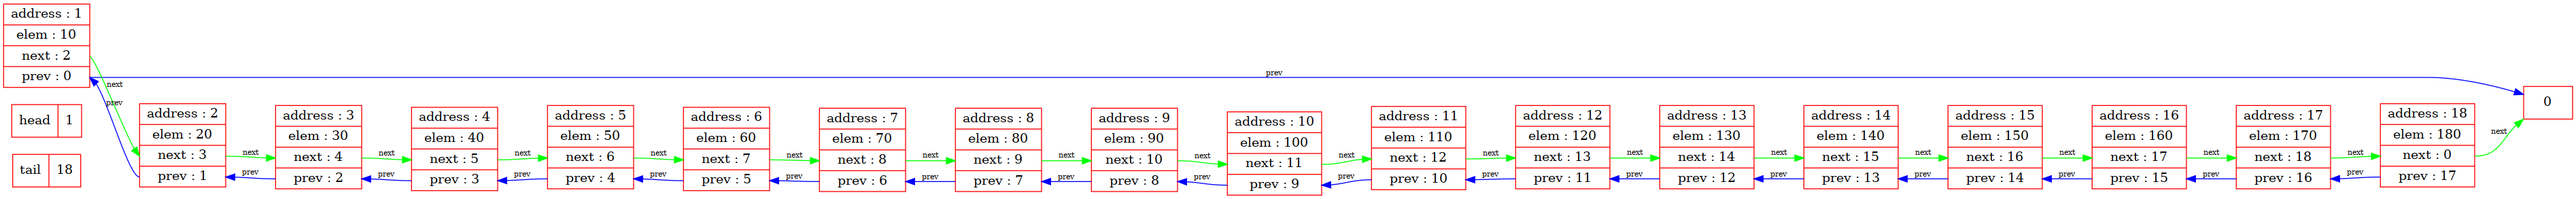
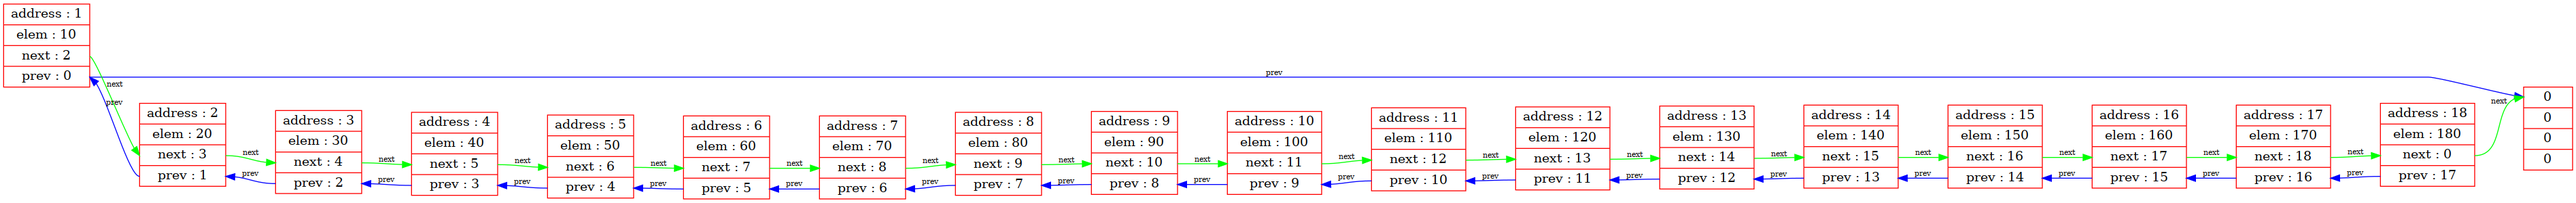
Add files via upload

Changed region(s): [[0.0, 0.43, 1.0, 0.9829], [0.0, 0.0, 0.9654, 0.4608], [0.0, 0.9215, 0.0311, 0.9522]]

diff --git a/StructList/listLog.html b/StructList/listLog.html
@@ -1,41 +1,1 @@
---------------------------------------------------------------------------------<br><br>[LIST_DUMP]<br><br>isSorted : 1<br>size : 0<br><br>   i :   0   1   2   3   4   5   6   7   8   9  10 <br><br>elem :   0   0   0   0   0   0   0   0   0   0   0 <br><br>next :   0   2   3   4   5   6   7   8   9  10   0 <br><br>prev :   0  -1  -1  -1  -1  -1  -1  -1  -1  -1  -1 <br><br>head : 0
-tail : 0
-freePlace : 1<br><br><img src ="/home/kostya/StructList/graphviz/graphviz1.png"><br>--------------------------------------------------------------------------------<br><br>--------------------------------------------------------------------------------<br><br>[LIST_DUMP]<br><br>isSorted : 1<br>size : 1<br><br>   i :   0   1   2   3   4   5   6   7   8   9  10 <br><br>elem :   0  10   0   0   0   0   0   0   0   0   0 <br><br>next :   0   0   3   4   5   6   7   8   9  10   0 <br><br>prev :   0   0  -1  -1  -1  -1  -1  -1  -1  -1  -1 <br><br>head : 1
-tail : 1
-freePlace : 2<br><br><img src ="/home/kostya/StructList/graphviz/graphviz2.png"><br>--------------------------------------------------------------------------------<br><br>--------------------------------------------------------------------------------<br><br>[LIST_DUMP]<br><br>isSorted : 1<br>size : 2<br><br>   i :   0   1   2   3   4   5   6   7   8   9  10 <br><br>elem :   0  10  20   0   0   0   0   0   0   0   0 <br><br>next :   0   2   0   4   5   6   7   8   9  10   0 <br><br>prev :   0   0   1  -1  -1  -1  -1  -1  -1  -1  -1 <br><br>head : 1
-tail : 2
-freePlace : 3<br><br><img src ="/home/kostya/StructList/graphviz/graphviz3.png"><br>--------------------------------------------------------------------------------<br><br>--------------------------------------------------------------------------------<br><br>[LIST_DUMP]<br><br>isSorted : 1<br>size : 3<br><br>   i :   0   1   2   3   4   5   6   7   8   9  10 <br><br>elem :   0  10  20  30   0   0   0   0   0   0   0 <br><br>next :   0   2   3   0   5   6   7   8   9  10   0 <br><br>prev :   0   0   1   2  -1  -1  -1  -1  -1  -1  -1 <br><br>head : 1
-tail : 3
-freePlace : 4<br><br><img src ="/home/kostya/StructList/graphviz/graphviz4.png"><br>--------------------------------------------------------------------------------<br><br>--------------------------------------------------------------------------------<br><br>[LIST_DUMP]<br><br>isSorted : 1<br>size : 4<br><br>   i :   0   1   2   3   4   5   6   7   8   9  10 <br><br>elem :   0  10  20  30  40   0   0   0   0   0   0 <br><br>next :   0   2   3   4   0   6   7   8   9  10   0 <br><br>prev :   0   0   1   2   3  -1  -1  -1  -1  -1  -1 <br><br>head : 1
-tail : 4
-freePlace : 5<br><br><img src ="/home/kostya/StructList/graphviz/graphviz5.png"><br>--------------------------------------------------------------------------------<br><br>--------------------------------------------------------------------------------<br><br>[LIST_DUMP]<br><br>isSorted : 1<br>size : 5<br><br>   i :   0   1   2   3   4   5   6   7   8   9  10 <br><br>elem :   0  10  20  30  40  50   0   0   0   0   0 <br><br>next :   0   2   3   4   5   0   7   8   9  10   0 <br><br>prev :   0   0   1   2   3   4  -1  -1  -1  -1  -1 <br><br>head : 1
-tail : 5
-freePlace : 6<br><br><img src ="/home/kostya/StructList/graphviz/graphviz6.png"><br>--------------------------------------------------------------------------------<br><br>--------------------------------------------------------------------------------<br><br>[LIST_DUMP]<br><br>isSorted : 1<br>size : 6<br><br>   i :   0   1   2   3   4   5   6   7   8   9  10 <br><br>elem :   0  10  20  30  40  50  60   0   0   0   0 <br><br>next :   0   2   3   4   5   6   0   8   9  10   0 <br><br>prev :   0   0   1   2   3   4   5  -1  -1  -1  -1 <br><br>head : 1
-tail : 6
-freePlace : 7<br><br><img src ="/home/kostya/StructList/graphviz/graphviz7.png"><br>--------------------------------------------------------------------------------<br><br>--------------------------------------------------------------------------------<br><br>[LIST_DUMP]<br><br>isSorted : 1<br>size : 7<br><br>   i :   0   1   2   3   4   5   6   7   8   9  10 <br><br>elem :   0  10  20  30  40  50  60  70   0   0   0 <br><br>next :   0   2   3   4   5   6   7   0   9  10   0 <br><br>prev :   0   0   1   2   3   4   5   6  -1  -1  -1 <br><br>head : 1
-tail : 7
-freePlace : 8<br><br><img src ="/home/kostya/StructList/graphviz/graphviz8.png"><br>--------------------------------------------------------------------------------<br><br>--------------------------------------------------------------------------------<br><br>[LIST_DUMP]<br><br>isSorted : 1<br>size : 8<br><br>   i :   0   1   2   3   4   5   6   7   8   9  10 <br><br>elem :   0  10  20  30  40  50  60  70  80   0   0 <br><br>next :   0   2   3   4   5   6   7   8   0  10   0 <br><br>prev :   0   0   1   2   3   4   5   6   7  -1  -1 <br><br>head : 1
-tail : 8
-freePlace : 9<br><br><img src ="/home/kostya/StructList/graphviz/graphviz9.png"><br>--------------------------------------------------------------------------------<br><br>--------------------------------------------------------------------------------<br><br>[LIST_DUMP]<br><br>isSorted : 1<br>size : 9<br><br>   i :   0   1   2   3   4   5   6   7   8   9  10 <br><br>elem :   0  10  20  30  40  50  60  70  80  90   0 <br><br>next :   0   2   3   4   5   6   7   8   9   0   0 <br><br>prev :   0   0   1   2   3   4   5   6   7   8  -1 <br><br>head : 1
-tail : 9
-freePlace : 10<br><br><img src ="/home/kostya/StructList/graphviz/graphviz10.png"><br>--------------------------------------------------------------------------------<br><br>--------------------------------------------------------------------------------<br><br>[LIST_DUMP]<br><br>isSorted : 1<br>size : 10<br><br>   i :   0   1   2   3   4   5   6   7   8   9  10 <br><br>elem :   0  10  20  30  40  50  60  70  80  90 100 <br><br>next :   0   2   3   4   5   6   7   8   9  10   0 <br><br>prev :   0   0   1   2   3   4   5   6   7   8   9 <br><br>head : 1
-tail : 10
-freePlace : 0<br><br><img src ="/home/kostya/StructList/graphviz/graphviz11.png"><br>--------------------------------------------------------------------------------<br><br>--------------------------------------------------------------------------------<br><br>[LIST_DUMP]<br><br>isSorted : 1<br>size : 11<br><br>   i :   0   1   2   3   4   5   6   7   8   9  10  11  12  13  14  15  16  17  18  19  20  21 <br><br>elem :   0  10  20  30  40  50  60  70  80  90 100 110   0   0   0   0   0   0   0   0   0   0 <br><br>next :   0   2   3   4   5   6   7   8   9  10  11   0  13  14  15  16  17  18  19  20  21 543450484 <br><br>prev :   0   0   1   2   3   4   5   6   7   8   9  10  -1  -1  -1  -1  -1  -1  -1  -1  -1  -1 <br><br>head : 1
-tail : 11
-freePlace : 12<br><br><img src ="/home/kostya/StructList/graphviz/graphviz12.png"><br>--------------------------------------------------------------------------------<br><br>--------------------------------------------------------------------------------<br><br>[LIST_DUMP]<br><br>isSorted : 1<br>size : 12<br><br>   i :   0   1   2   3   4   5   6   7   8   9  10  11  12  13  14  15  16  17  18  19  20  21 <br><br>elem :   0  10  20  30  40  50  60  70  80  90 100 110 120   0   0   0   0   0   0   0   0   0 <br><br>next :   0   2   3   4   5   6   7   8   9  10  11  12   0  14  15  16  17  18  19  20  21 543450484 <br><br>prev :   0   0   1   2   3   4   5   6   7   8   9  10  11  -1  -1  -1  -1  -1  -1  -1  -1  -1 <br><br>head : 1
-tail : 12
-freePlace : 13<br><br><img src ="/home/kostya/StructList/graphviz/graphviz13.png"><br>--------------------------------------------------------------------------------<br><br>--------------------------------------------------------------------------------<br><br>[LIST_DUMP]<br><br>isSorted : 1<br>size : 13<br><br>   i :   0   1   2   3   4   5   6   7   8   9  10  11  12  13  14  15  16  17  18  19  20  21 <br><br>elem :   0  10  20  30  40  50  60  70  80  90 100 110 120 130   0   0   0   0   0   0   0   0 <br><br>next :   0   2   3   4   5   6   7   8   9  10  11  12  13   0  15  16  17  18  19  20  21 543450484 <br><br>prev :   0   0   1   2   3   4   5   6   7   8   9  10  11  12  -1  -1  -1  -1  -1  -1  -1  -1 <br><br>head : 1
-tail : 13
-freePlace : 14<br><br><img src ="/home/kostya/StructList/graphviz/graphviz14.png"><br>--------------------------------------------------------------------------------<br><br>--------------------------------------------------------------------------------<br><br>[LIST_DUMP]<br><br>isSorted : 1<br>size : 14<br><br>   i :   0   1   2   3   4   5   6   7   8   9  10  11  12  13  14  15  16  17  18  19  20  21 <br><br>elem :   0  10  20  30  40  50  60  70  80  90 100 110 120 130 140   0   0   0   0   0   0   0 <br><br>next :   0   2   3   4   5   6   7   8   9  10  11  12  13  14   0  16  17  18  19  20  21 543450484 <br><br>prev :   0   0   1   2   3   4   5   6   7   8   9  10  11  12  13  -1  -1  -1  -1  -1  -1  -1 <br><br>head : 1
-tail : 14
-freePlace : 15<br><br><img src ="/home/kostya/StructList/graphviz/graphviz15.png"><br>--------------------------------------------------------------------------------<br><br>--------------------------------------------------------------------------------<br><br>[LIST_DUMP]<br><br>isSorted : 1<br>size : 15<br><br>   i :   0   1   2   3   4   5   6   7   8   9  10  11  12  13  14  15  16  17  18  19  20  21 <br><br>elem :   0  10  20  30  40  50  60  70  80  90 100 110 120 130 140 150   0   0   0   0   0   0 <br><br>next :   0   2   3   4   5   6   7   8   9  10  11  12  13  14  15   0  17  18  19  20  21 543450484 <br><br>prev :   0   0   1   2   3   4   5   6   7   8   9  10  11  12  13  14  -1  -1  -1  -1  -1  -1 <br><br>head : 1
-tail : 15
-freePlace : 16<br><br><img src ="/home/kostya/StructList/graphviz/graphviz16.png"><br>--------------------------------------------------------------------------------<br><br>--------------------------------------------------------------------------------<br><br>[LIST_DUMP]<br><br>isSorted : 1<br>size : 16<br><br>   i :   0   1   2   3   4   5   6   7   8   9  10  11  12  13  14  15  16  17  18  19  20  21 <br><br>elem :   0  10  20  30  40  50  60  70  80  90 100 110 120 130 140 150 160   0   0   0   0   0 <br><br>next :   0   2   3   4   5   6   7   8   9  10  11  12  13  14  15  16   0  18  19  20  21 543450484 <br><br>prev :   0   0   1   2   3   4   5   6   7   8   9  10  11  12  13  14  15  -1  -1  -1  -1  -1 <br><br>head : 1
-tail : 16
-freePlace : 17<br><br><img src ="/home/kostya/StructList/graphviz/graphviz17.png"><br>--------------------------------------------------------------------------------<br><br>--------------------------------------------------------------------------------<br><br>[LIST_DUMP]<br><br>isSorted : 1<br>size : 17<br><br>   i :   0   1   2   3   4   5   6   7   8   9  10  11  12  13  14  15  16  17  18  19  20  21 <br><br>elem :   0  10  20  30  40  50  60  70  80  90 100 110 120 130 140 150 160 170   0   0   0   0 <br><br>next :   0   2   3   4   5   6   7   8   9  10  11  12  13  14  15  16  17   0  19  20  21 543450484 <br><br>prev :   0   0   1   2   3   4   5   6   7   8   9  10  11  12  13  14  15  16  -1  -1  -1  -1 <br><br>head : 1
-tail : 17
-freePlace : 18<br><br><img src ="/home/kostya/StructList/graphviz/graphviz18.png"><br>--------------------------------------------------------------------------------<br><br>--------------------------------------------------------------------------------<br><br>[LIST_DUMP]<br><br>isSorted : 1<br>size : 18<br><br>   i :   0   1   2   3   4   5   6   7   8   9  10  11  12  13  14  15  16  17  18  19  20  21 <br><br>elem :   0  10  20  30  40  50  60  70  80  90 100 110 120 130 140 150 160 170 180   0   0   0 <br><br>next :   0   2   3   4   5   6   7   8   9  10  11  12  13  14  15  16  17  18   0  20  21 543450484 <br><br>prev :   0   0   1   2   3   4   5   6   7   8   9  10  11  12  13  14  15  16  17  -1  -1  -1 <br><br>head : 1
-tail : 18
-freePlace : 19<br><br><img src ="/home/kostya/StructList/graphviz/graphviz19.png"><br>--------------------------------------------------------------------------------<br><br>--------------------------------------------------------------------------------<br><br>[LIST_DUMP]<br><br>isSorted : 1<br>size : 19<br><br>   i :   0   1   2   3   4   5   6   7   8   9  10  11  12  13  14  15  16  17  18  19  20  21 <br><br>elem :   0  10  20  30  40  50  60  70  80  90 100 110 120 130 140 150 160 170 180 190   0   0 <br><br>next :   0   2   3   4   5   6   7   8   9  10  11  12  13  14  15  16  17  18  19   0  21 543450484 <br><br>prev :   0   0   1   2   3   4   5   6   7   8   9  10  11  12  13  14  15  16  17  18  -1  -1 <br><br>head : 1
-tail : 19
-freePlace : 20<br><br><img src ="/home/kostya/StructList/graphviz/graphviz20.png"><br>--------------------------------------------------------------------------------<br><br>
+--------------------------------------------------------------------------------<br><br>[LIST_DUMP]<br><br>isSorted : 1<br>size : 0<br><br>   i :   0   1   2   3   4   5   6   7   8   9  10 <br><br>elem :   0   0   0   0   0   0   0   0   0   0   0 <br><br>next :   0   2   3   4   5   6   7   8   9  10   0 <br><br>prev :   0  -1  -1  -1  -1  -1  -1  -1  -1  -1  -1 <br><br>head : 0<br>tail : 0<br>freePlace : 1<br><br><img src ="/home/kostya/StructList/graphviz/graphviz1.png"><br>--------------------------------------------------------------------------------<br><br>--------------------------------------------------------------------------------<br><br>[LIST_DUMP]<br><br>isSorted : 1<br>size : 1<br><br>   i :   0   1   2   3   4   5   6   7   8   9  10 <br><br>elem :   0  10   0   0   0   0   0   0   0   0   0 <br><br>next :   0   0   3   4   5   6   7   8   9  10   0 <br><br>prev :   0   0  -1  -1  -1  -1  -1  -1  -1  -1  -1 <br><br>head : 1<br>tail : 1<br>freePlace : 2<br><br><img src ="/home/kostya/StructList/graphviz/graphviz2.png"><br>--------------------------------------------------------------------------------<br><br>--------------------------------------------------------------------------------<br><br>[LIST_DUMP]<br><br>isSorted : 1<br>size : 2<br><br>   i :   0   1   2   3   4   5   6   7   8   9  10 <br><br>elem :   0  10  20   0   0   0   0   0   0   0   0 <br><br>next :   0   2   0   4   5   6   7   8   9  10   0 <br><br>prev :   0   0   1  -1  -1  -1  -1  -1  -1  -1  -1 <br><br>head : 1<br>tail : 2<br>freePlace : 3<br><br><img src ="/home/kostya/StructList/graphviz/graphviz3.png"><br>--------------------------------------------------------------------------------<br><br>--------------------------------------------------------------------------------<br><br>[LIST_DUMP]<br><br>isSorted : 1<br>size : 3<br><br>   i :   0   1   2   3   4   5   6   7   8   9  10 <br><br>elem :   0  10  20  30   0   0   0   0   0   0   0 <br><br>next :   0   2   3   0   5   6   7   8   9  10   0 <br><br>prev :   0   0   1   2  -1  -1  -1  -1  -1  -1  -1 <br><br>head : 1<br>tail : 3<br>freePlace : 4<br><br><img src ="/home/kostya/StructList/graphviz/graphviz4.png"><br>--------------------------------------------------------------------------------<br><br>--------------------------------------------------------------------------------<br><br>[LIST_DUMP]<br><br>isSorted : 1<br>size : 4<br><br>   i :   0   1   2   3   4   5   6   7   8   9  10 <br><br>elem :   0  10  20  30  40   0   0   0   0   0   0 <br><br>next :   0   2   3   4   0   6   7   8   9  10   0 <br><br>prev :   0   0   1   2   3  -1  -1  -1  -1  -1  -1 <br><br>head : 1<br>tail : 4<br>freePlace : 5<br><br><img src ="/home/kostya/StructList/graphviz/graphviz5.png"><br>--------------------------------------------------------------------------------<br><br>--------------------------------------------------------------------------------<br><br>[LIST_DUMP]<br><br>isSorted : 1<br>size : 5<br><br>   i :   0   1   2   3   4   5   6   7   8   9  10 <br><br>elem :   0  10  20  30  40  50   0   0   0   0   0 <br><br>next :   0   2   3   4   5   0   7   8   9  10   0 <br><br>prev :   0   0   1   2   3   4  -1  -1  -1  -1  -1 <br><br>head : 1<br>tail : 5<br>freePlace : 6<br><br><img src ="/home/kostya/StructList/graphviz/graphviz6.png"><br>--------------------------------------------------------------------------------<br><br>--------------------------------------------------------------------------------<br><br>[LIST_DUMP]<br><br>isSorted : 1<br>size : 6<br><br>   i :   0   1   2   3   4   5   6   7   8   9  10 <br><br>elem :   0  10  20  30  40  50  60   0   0   0   0 <br><br>next :   0   2   3   4   5   6   0   8   9  10   0 <br><br>prev :   0   0   1   2   3   4   5  -1  -1  -1  -1 <br><br>head : 1<br>tail : 6<br>freePlace : 7<br><br><img src ="/home/kostya/StructList/graphviz/graphviz7.png"><br>--------------------------------------------------------------------------------<br><br>--------------------------------------------------------------------------------<br><br>[LIST_DUMP]<br><br>isSorted : 1<br>size : 7<br><br>   i :   0   1   2   3   4   5   6   7   8   9  10 <br><br>elem :   0  10  20  30  40  50  60  70   0   0   0 <br><br>next :   0   2   3   4   5   6   7   0   9  10   0 <br><br>prev :   0   0   1   2   3   4   5   6  -1  -1  -1 <br><br>head : 1<br>tail : 7<br>freePlace : 8<br><br><img src ="/home/kostya/StructList/graphviz/graphviz8.png"><br>--------------------------------------------------------------------------------<br><br>--------------------------------------------------------------------------------<br><br>[LIST_DUMP]<br><br>isSorted : 1<br>size : 8<br><br>   i :   0   1   2   3   4   5   6   7   8   9  10 <br><br>elem :   0  10  20  30  40  50  60  70  80   0   0 <br><br>next :   0   2   3   4   5   6   7   8   0  10   0 <br><br>prev :   0   0   1   2   3   4   5   6   7  -1  -1 <br><br>head : 1<br>tail : 8<br>freePlace : 9<br><br><img src ="/home/kostya/StructList/graphviz/graphviz9.png"><br>--------------------------------------------------------------------------------<br><br>--------------------------------------------------------------------------------<br><br>[LIST_DUMP]<br><br>isSorted : 1<br>size : 9<br><br>   i :   0   1   2   3   4   5   6   7   8   9  10 <br><br>elem :   0  10  20  30  40  50  60  70  80  90   0 <br><br>next :   0   2   3   4   5   6   7   8   9   0   0 <br><br>prev :   0   0   1   2   3   4   5   6   7   8  -1 <br><br>head : 1<br>tail : 9<br>freePlace : 10<br><br><img src ="/home/kostya/StructList/graphviz/graphviz10.png"><br>--------------------------------------------------------------------------------<br><br>--------------------------------------------------------------------------------<br><br>[LIST_DUMP]<br><br>isSorted : 1<br>size : 10<br><br>   i :   0   1   2   3   4   5   6   7   8   9  10 <br><br>elem :   0  10  20  30  40  50  60  70  80  90 100 <br><br>next :   0   2   3   4   5   6   7   8   9  10   0 <br><br>prev :   0   0   1   2   3   4   5   6   7   8   9 <br><br>head : 1<br>tail : 10<br>freePlace : 0<br><br><img src ="/home/kostya/StructList/graphviz/graphviz11.png"><br>--------------------------------------------------------------------------------<br><br>--------------------------------------------------------------------------------<br><br>[LIST_DUMP]<br><br>isSorted : 1<br>size : 11<br><br>   i :   0   1   2   3   4   5   6   7   8   9  10  11  12  13  14  15  16  17  18  19  20  21 <br><br>elem :   0  10  20  30  40  50  60  70  80  90 100 110   0   0   0   0   0   0   0   0   0   0 <br><br>next :   0   2   3   4   5   6   7   8   9  10  11   0  13  14  15  16  17  18  19  20  21 543450484 <br><br>prev :   0   0   1   2   3   4   5   6   7   8   9  10  -1  -1  -1  -1  -1  -1  -1  -1  -1  -1 <br><br>head : 1<br>tail : 11<br>freePlace : 12<br><br><img src ="/home/kostya/StructList/graphviz/graphviz12.png"><br>--------------------------------------------------------------------------------<br><br>--------------------------------------------------------------------------------<br><br>[LIST_DUMP]<br><br>isSorted : 1<br>size : 12<br><br>   i :   0   1   2   3   4   5   6   7   8   9  10  11  12  13  14  15  16  17  18  19  20  21 <br><br>elem :   0  10  20  30  40  50  60  70  80  90 100 110 120   0   0   0   0   0   0   0   0   0 <br><br>next :   0   2   3   4   5   6   7   8   9  10  11  12   0  14  15  16  17  18  19  20  21 543450484 <br><br>prev :   0   0   1   2   3   4   5   6   7   8   9  10  11  -1  -1  -1  -1  -1  -1  -1  -1  -1 <br><br>head : 1<br>tail : 12<br>freePlace : 13<br><br><img src ="/home/kostya/StructList/graphviz/graphviz13.png"><br>--------------------------------------------------------------------------------<br><br>--------------------------------------------------------------------------------<br><br>[LIST_DUMP]<br><br>isSorted : 1<br>size : 13<br><br>   i :   0   1   2   3   4   5   6   7   8   9  10  11  12  13  14  15  16  17  18  19  20  21 <br><br>elem :   0  10  20  30  40  50  60  70  80  90 100 110 120 130   0   0   0   0   0   0   0   0 <br><br>next :   0   2   3   4   5   6   7   8   9  10  11  12  13   0  15  16  17  18  19  20  21 543450484 <br><br>prev :   0   0   1   2   3   4   5   6   7   8   9  10  11  12  -1  -1  -1  -1  -1  -1  -1  -1 <br><br>head : 1<br>tail : 13<br>freePlace : 14<br><br><img src ="/home/kostya/StructList/graphviz/graphviz14.png"><br>--------------------------------------------------------------------------------<br><br>--------------------------------------------------------------------------------<br><br>[LIST_DUMP]<br><br>isSorted : 1<br>size : 14<br><br>   i :   0   1   2   3   4   5   6   7   8   9  10  11  12  13  14  15  16  17  18  19  20  21 <br><br>elem :   0  10  20  30  40  50  60  70  80  90 100 110 120 130 140   0   0   0   0   0   0   0 <br><br>next :   0   2   3   4   5   6   7   8   9  10  11  12  13  14   0  16  17  18  19  20  21 543450484 <br><br>prev :   0   0   1   2   3   4   5   6   7   8   9  10  11  12  13  -1  -1  -1  -1  -1  -1  -1 <br><br>head : 1<br>tail : 14<br>freePlace : 15<br><br><img src ="/home/kostya/StructList/graphviz/graphviz15.png"><br>--------------------------------------------------------------------------------<br><br>--------------------------------------------------------------------------------<br><br>[LIST_DUMP]<br><br>isSorted : 1<br>size : 15<br><br>   i :   0   1   2   3   4   5   6   7   8   9  10  11  12  13  14  15  16  17  18  19  20  21 <br><br>elem :   0  10  20  30  40  50  60  70  80  90 100 110 120 130 140 150   0   0   0   0   0   0 <br><br>next :   0   2   3   4   5   6   7   8   9  10  11  12  13  14  15   0  17  18  19  20  21 543450484 <br><br>prev :   0   0   1   2   3   4   5   6   7   8   9  10  11  12  13  14  -1  -1  -1  -1  -1  -1 <br><br>head : 1<br>tail : 15<br>freePlace : 16<br><br><img src ="/home/kostya/StructList/graphviz/graphviz16.png"><br>--------------------------------------------------------------------------------<br><br>--------------------------------------------------------------------------------<br><br>[LIST_DUMP]<br><br>isSorted : 1<br>size : 16<br><br>   i :   0   1   2   3   4   5   6   7   8   9  10  11  12  13  14  15  16  17  18  19  20  21 <br><br>elem :   0  10  20  30  40  50  60  70  80  90 100 110 120 130 140 150 160   0   0   0   0   0 <br><br>next :   0   2   3   4   5   6   7   8   9  10  11  12  13  14  15  16   0  18  19  20  21 543450484 <br><br>prev :   0   0   1   2   3   4   5   6   7   8   9  10  11  12  13  14  15  -1  -1  -1  -1  -1 <br><br>head : 1<br>tail : 16<br>freePlace : 17<br><br><img src ="/home/kostya/StructList/graphviz/graphviz17.png"><br>--------------------------------------------------------------------------------<br><br>--------------------------------------------------------------------------------<br><br>[LIST_DUMP]<br><br>isSorted : 1<br>size : 17<br><br>   i :   0   1   2   3   4   5   6   7   8   9  10  11  12  13  14  15  16  17  18  19  20  21 <br><br>elem :   0  10  20  30  40  50  60  70  80  90 100 110 120 130 140 150 160 170   0   0   0   0 <br><br>next :   0   2   3   4   5   6   7   8   9  10  11  12  13  14  15  16  17   0  19  20  21 543450484 <br><br>prev :   0   0   1   2   3   4   5   6   7   8   9  10  11  12  13  14  15  16  -1  -1  -1  -1 <br><br>head : 1<br>tail : 17<br>freePlace : 18<br><br><img src ="/home/kostya/StructList/graphviz/graphviz18.png"><br>--------------------------------------------------------------------------------<br><br>--------------------------------------------------------------------------------<br><br>[LIST_DUMP]<br><br>isSorted : 1<br>size : 18<br><br>   i :   0   1   2   3   4   5   6   7   8   9  10  11  12  13  14  15  16  17  18  19  20  21 <br><br>elem :   0  10  20  30  40  50  60  70  80  90 100 110 120 130 140 150 160 170 180   0   0   0 <br><br>next :   0   2   3   4   5   6   7   8   9  10  11  12  13  14  15  16  17  18   0  20  21 543450484 <br><br>prev :   0   0   1   2   3   4   5   6   7   8   9  10  11  12  13  14  15  16  17  -1  -1  -1 <br><br>head : 1<br>tail : 18<br>freePlace : 19<br><br><img src ="/home/kostya/StructList/graphviz/graphviz19.png"><br>--------------------------------------------------------------------------------<br><br>--------------------------------------------------------------------------------<br><br>[LIST_DUMP]<br><br>isSorted : 1<br>size : 19<br><br>   i :   0   1   2   3   4   5   6   7   8   9  10  11  12  13  14  15  16  17  18  19  20  21 <br><br>elem :   0  10  20  30  40  50  60  70  80  90 100 110 120 130 140 150 160 170 180 190   0   0 <br><br>next :   0   2   3   4   5   6   7   8   9  10  11  12  13  14  15  16  17  18  19   0  21 543450484 <br><br>prev :   0   0   1   2   3   4   5   6   7   8   9  10  11  12  13  14  15  16  17  18  -1  -1 <br><br>head : 1<br>tail : 19<br>freePlace : 20<br><br><img src ="/home/kostya/StructList/graphviz/graphviz20.png"><br>--------------------------------------------------------------------------------<br><br>

diff --git a/StructList/List.cpp b/StructList/List.cpp
@@ -175,8 +175,8 @@ ListErrorCode ListDump(const List_t *list)
     FPRINTF_LIST_DATA_(d, next);
     FPRINTF_LIST_DATA_(d, prev);
 
-    fprintf(logFile, "head : %lu\n", list->head);
-    fprintf(logFile, "tail : %lu\n", list->tail);
+    fprintf(logFile, "head : %lu<br>", list->head);
+    fprintf(logFile, "tail : %lu<br>", list->tail);
     fprintf(logFile, "freePlace : %lu<br><br>", list->freePlace);
 
     FILE *graphViz = fopen(LIST_GRAPH_VIZ, "w");
@@ -185,12 +185,9 @@ ListErrorCode ListDump(const List_t *list)
     fprintf(graphViz,"\trankdir=LR;\n\n");
     fprintf(graphViz, "\tnode[color=\"red\",fontsize=14];\n\n");
 
-    fprintf(graphViz, "\tfirst[shape=record,label=\"{tail| %lu}\"];\n", list->tail);
-    fprintf(graphViz, "\tzero[shape=record,label=\"{head| %lu}\"];\n\n", list->head);
-
     if (list->size != 0)
     {
-        fprintf(graphViz, "\t0[shape=record,label=\"{<0> 0}\"];\n");
+        fprintf(graphViz, "\t0[shape=record,label=\"<0> 0 | <0> 0 | <0> 0 | <0> 0\"];\n");
 
         size_t head = list->head;
         for (i = 1; i < list->capacity; i++)
